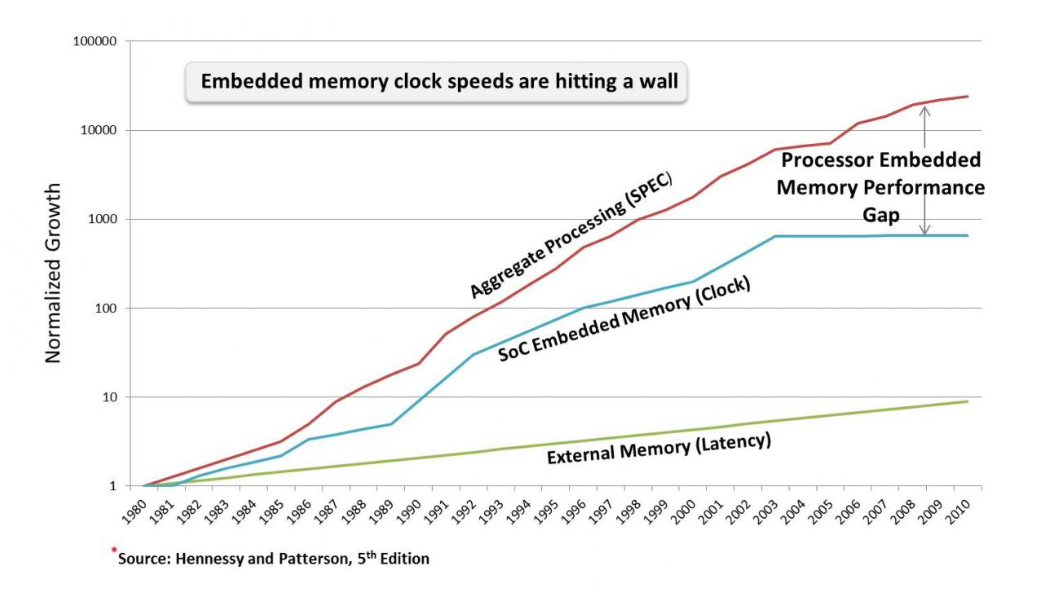
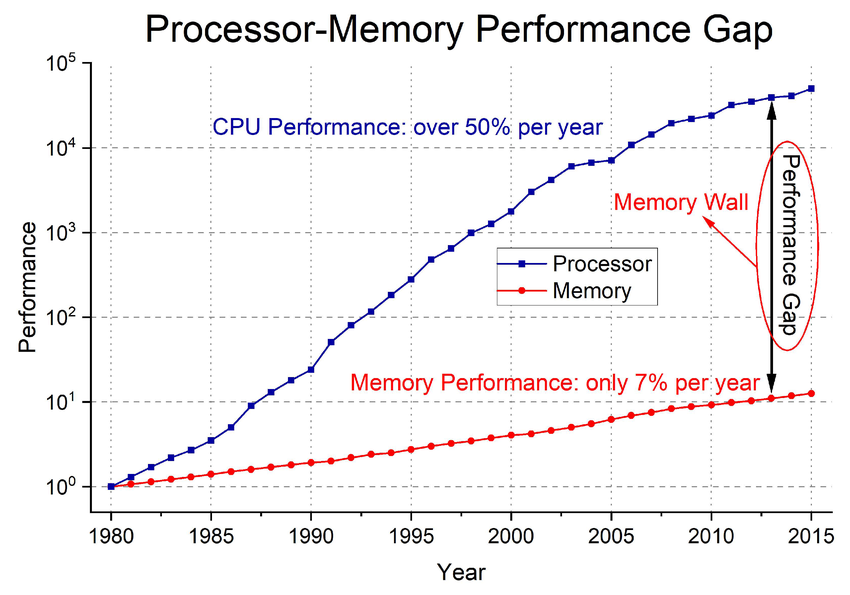
Testing inline citations

Changed region(s): [[0.0, 0.0, 0.9788, 0.9779], [0.52, 0.9474, 0.5812, 0.9779], [0.9482, 0.1222, 0.9788, 0.1528]]

diff --git a/Summary_revised.md b/Summary_revised.md
@@ -17,7 +17,7 @@ In this document, we are going to give an overview of the tools that can be util
 
 ## Performance Monitoring Units
 
-PMUs (Performance Monitoring Units) are parts that are integrated into the hardware to track hardware events such as cache misses or branch mispredictions. [General Overview of Cache Miss](https://en.wikipedia.org/wiki/Cache_(computing)#CACHE-MISS) [General Overview of Branch Prediction](https://en.wikipedia.org/wiki/Branch_predictor). 
+PMUs (Performance Monitoring Units) are parts that are integrated into the hardware to track hardware events such as cache misses or branch mispredictions. [General Overview of Cache Miss](https://en.wikipedia.org/wiki/Cache_(computing)#CACHE-MISS) [General Overview of Branch Prediction](https://en.wikipedia.org/wiki/Branch_predictor).
 However, it tends to be a challenge to identify which of the events actually causes the performance declines.
 That is why tools such as [Intel Vtune Profiler](https://www.intel.com/content/www/us/en/developer/tools/oneapi/vtune-profiler.html)  are used to give a predefined set of events to use as a reference.
 Through these events, it is possible to narrow down on the hot-spot functions.
@@ -41,7 +41,7 @@ On average, Intel’s CPU frontend is able to allocate, and the backend is able 
 TMA makes the assumption that there are 4 pipelines for each core of the CPU.
 
 ![Diagram of PMU from Intel](./images/pmu.png)
-[^pmu]
+[^1]
 
 ### **Pipeline Stalling**
 
@@ -81,7 +81,7 @@ This micro operation is then executed in the execute stage.
 Data is read during the memory stage and, if required, the memory is then committed in the writeback stage.
 The writeback and the memory stage can technically be combined into a single process, since it can be generalized to load and store memory.
 
-![alt text](./images/writeback.png)
+![Timing Diagrams of Single Cycle and Pipelined Processor ](./images/writeback.png)
 
 A pipeline stage can be fetching instructions while another pipeline stage decodes or executes another instruction.
 In essence, multiple instructions can be processed at once.
@@ -354,18 +354,18 @@ A few ways to prevent these issues:
 
 - In C++, there are also branch hint annotations, which can guide the compiler’s optimization of the instruction layout.
 
-<details> 
-   <summary><b>Example: C++ Branch Hint Annotations</b></summary>
-  
-  ```cpp
-  if (is_valid) [[likely]] {
-      // High-performance hot path
-  } else [[unlikely]] {
-      // Less-likely cold path (error handling)
-  }
-  ```
+  <details> 
+    <summary><b>Example: C++ Branch Hint Annotations</b></summary>
 
-</details>
+     ```cpp
+    if (is_valid) [[likely]] {
+        // High-performance hot path
+    } else [[unlikely]] {
+        // Less-likely cold path (error handling)
+    }
+    ```
+
+  </details>
 
 ---
 
@@ -446,7 +446,7 @@ Among these, Parca stands out as a great open-source option.
 Over the years, processor speed has increased significantly, while memory speed hasn’t improved much.
 Memory latency has been introduced due to the memory performance falling behind.
 
-![alt text](./images/memory_graph.png)
+![Increasing gap in memory performance](./images/memory_graph.png)
 
 ### **How Memory Latency is Addressed**
 
@@ -1118,6 +1118,8 @@ Wikipedia contributors. (n.d.). "Cache (computing)." *Wikipedia, The Free Encycl
 Yasin, A. (2020). *A Top-Down Method for Performance Analysis and Counters Architecture*. arXiv:2004.05628 [cs.PF]. https://arxiv.org/abs/2004.05628
 
 Figure citations:
+
+[^1]: Intel Corporation, “Top-down Microarchitecture Analysis Method,” Intel® VTune™ Profiler Performance Analysis Cookbook, May 19, 2023. [Online]. Available: https://www.intel.com/content/www/us/en/docs/vtune-profiler/cookbook/2023-0/top-down-microarchitecture-analysis-method.html
 
 pipeline.png  
 Figure: Five-stage pipeline diagram. Source: Poil, "Instruction scheduling using a 5 stages pipeline," *Wikimedia Commons*. [Online]. Available: https://commons.wikimedia.org/wiki/File:Fivestagespipeline.png
